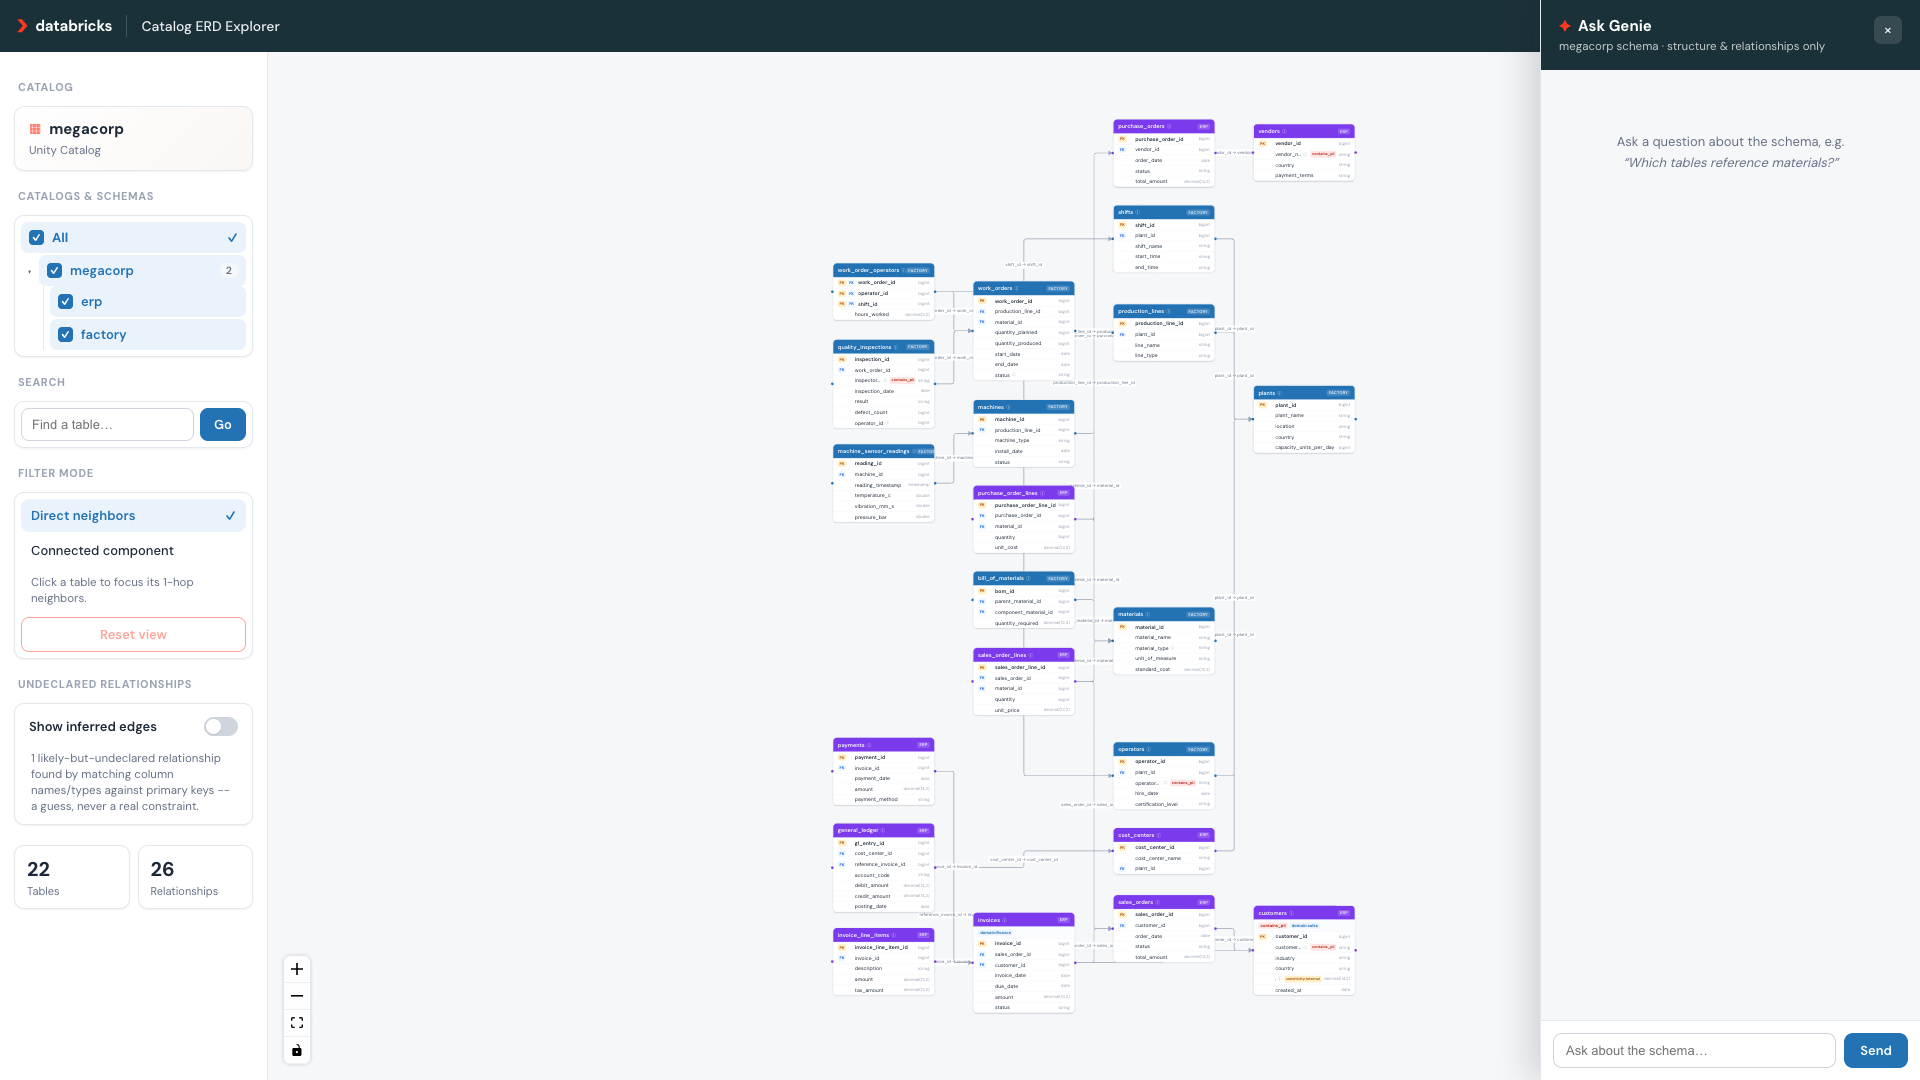
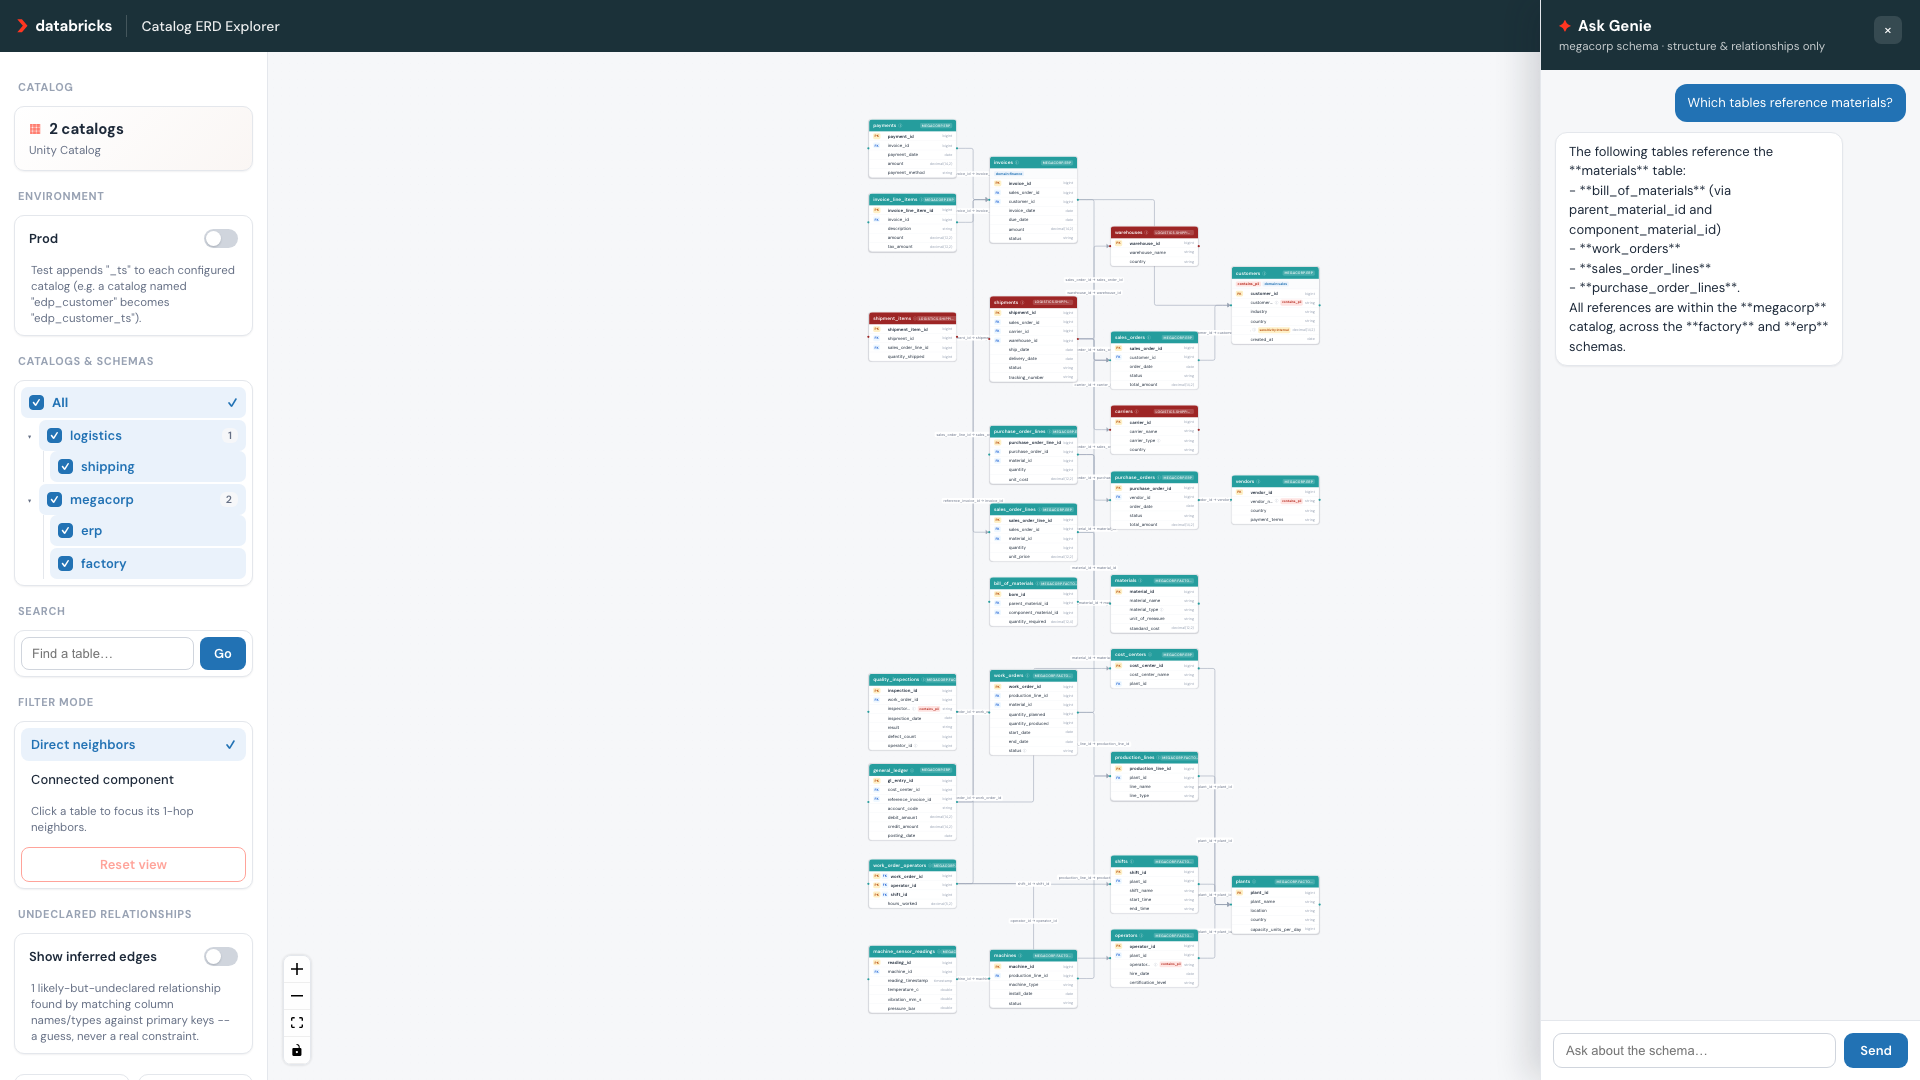
Refresh README screenshots for current UI; stop tracking DEMO.md
- Retook all screenshots via Playwright against the live app: multi-catalog
  view with the new per-view catalog coloring and Environment toggle, the
  reorganized export panel (now its own screenshot), click-to-filter,
  comments/tags, inferred relationships, and a real Genie Q&A exchange
  instead of an empty chat panel.
- DEMO.md is an internal build-history/scope-negotiation record, not meant
  for public consumption -- untracked it and added it to .gitignore
  (kept locally). README's project-structure section and one remaining
  reference updated to reflect that it's no longer part of the repo.

diff --git a/uc_erd_explorer/README.md b/uc_erd_explorer/README.md
@@ -67,6 +67,8 @@ asking schema questions in plain English.
 
 ![Inferred relationships](docs/screenshots/erd-inferred-relationships.png)
 
+![Export panel](docs/screenshots/erd-export-panel.png)
+
 ![Genie chat](docs/screenshots/genie-chat.png)
 
 ## Why the Genie scoping matters
@@ -477,6 +479,9 @@ erd-explorer/
 ├── notebooks/
 │   └── install.py                # Route 2: notebook-based install (calls the same
 │                                    setup/ functions as Route 1's DAB job)
-├── databricks.yml                # Route 1: Databricks Asset Bundle (app + setup job)
-└── DEMO.md                       # build history / design decisions (internal record)
+└── databricks.yml                # Route 1: Databricks Asset Bundle (app + setup job)
 ```
+
+An internal `DEMO.md` (build history / scope-negotiation notes) exists locally alongside
+this README but is gitignored on purpose -- it's a working record for whoever's building
+this out, not meant for public consumption.
